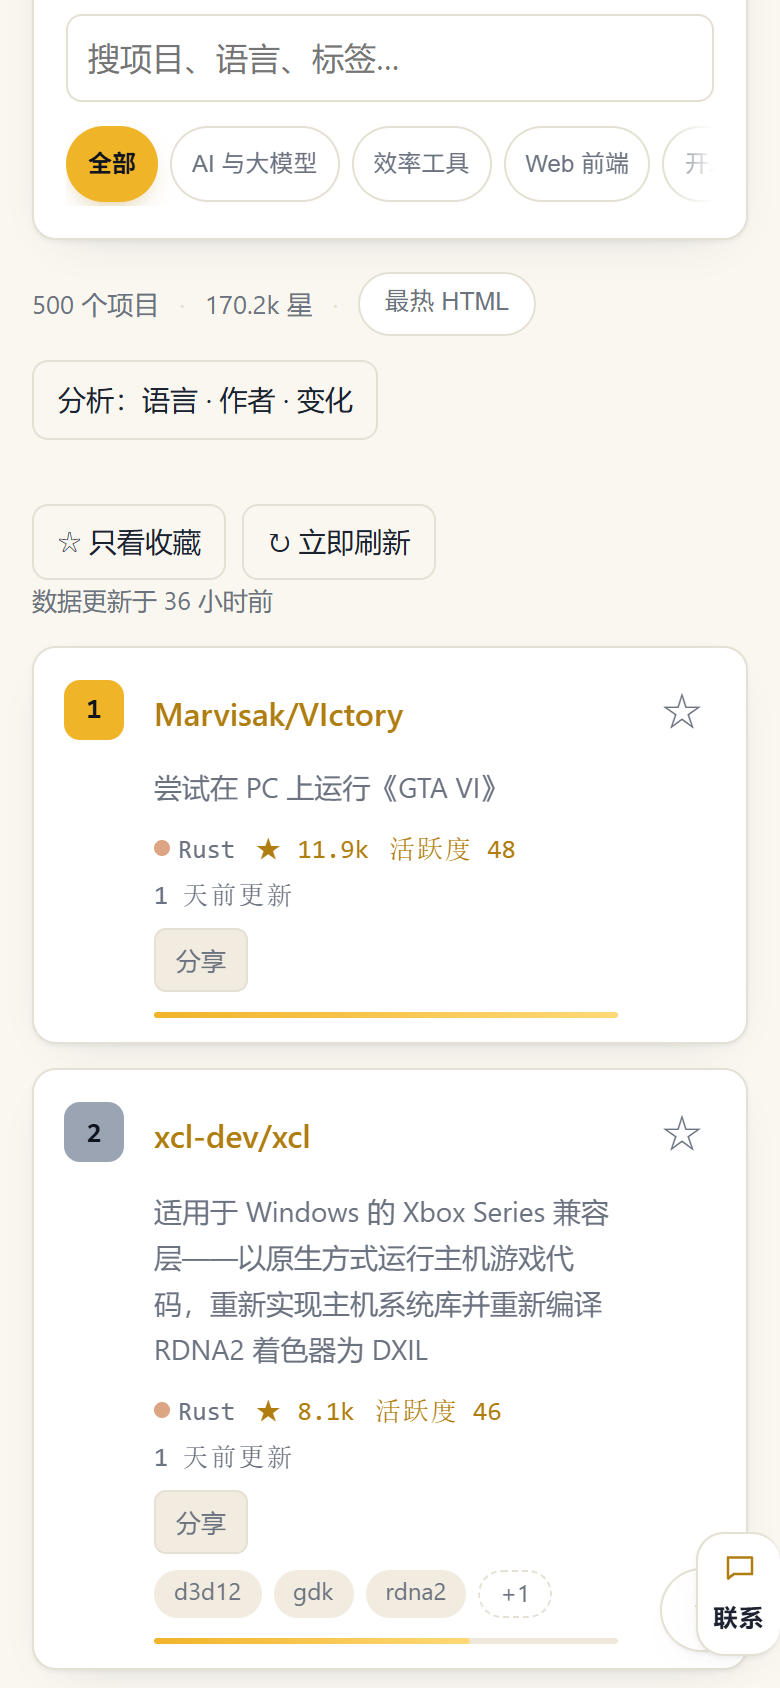
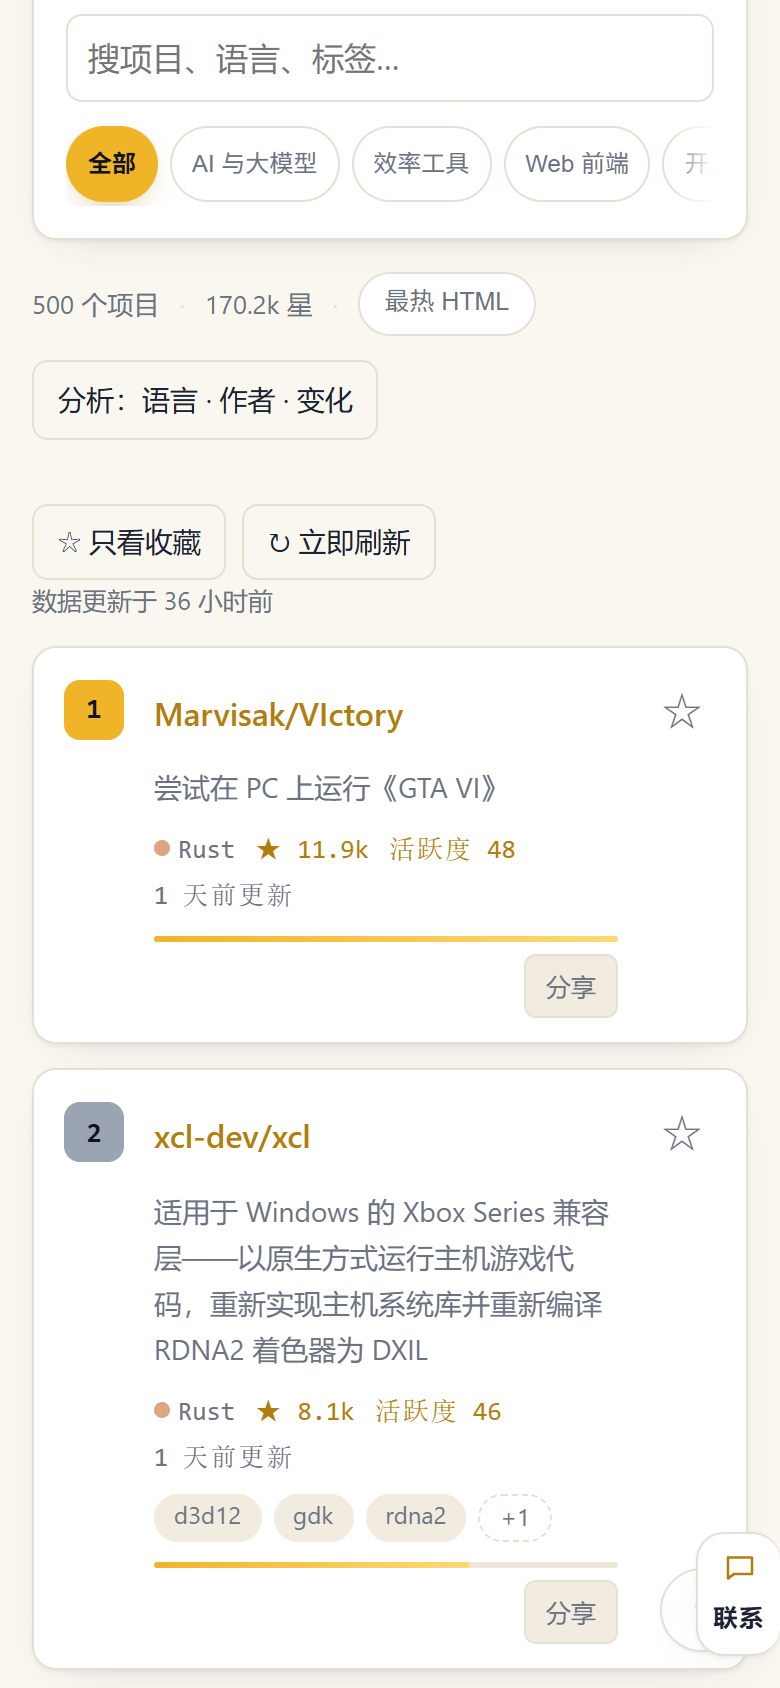
fix(home): 「分享」按钮改成整行右对齐（窄屏）；桌面仍隐藏
- 第一版直接 append 到卡片 body：inline-flex 在 block 父级里 margin-left:auto 无效，按钮落在左边
- 改为包一层 .mshare-row（窄屏 display:block;text-align:right），并把它放在卡片末尾（标签与进度条之后），不打断「标题→摘要→事实行→标签」的阅读顺序
- check-share-mobile 的桌面断言改成「整行 display:none 且按钮占 0 高」（原来量按钮自身 display，父级隐藏时仍报 inline-block）
- check-live 的桌面隐藏断言同步改成 .mshare-row；docs §190 补上这条实现细节

Changed region(s): [[0.1846, 0.8626, 0.8, 0.9858], [0.1846, 0.5237, 0.8, 0.6161]]

diff --git a/index.html b/index.html
@@ -302,13 +302,15 @@ html[data-theme="ink"] .navcard .hitmark,html[data-theme="ink"] .navjump .hitmar
 .skip{position:absolute;left:-9999px;top:0;z-index:80;padding:10px 14px;border-radius:0 0 10px 0;background:var(--accent);color:#fff;font-weight:700;text-decoration:none;font-size:14px}
 .skip:focus{left:0;outline:2px solid var(--accent-ink,var(--accent));outline-offset:2px}
 .mini{background:var(--chip);color:var(--muted);border:1px solid var(--border);border-radius:6px;padding:0 8px;font:inherit;font-size:12px;cursor:pointer}
-#list .item .mini.mshare{display:none;margin-left:auto;margin-top:6px}
+#list .item .mshare-row{display:none}
+#list .item .mini.mshare{margin:0}
 @media (hover:hover) and (pointer:fine){
   #list .item .mini{opacity:0;transition:opacity .15s ease}
   #list .item:hover .mini,#list .item:focus-within .mini{opacity:1}
 }
 @media (hover:none){
   #list .item .mini{display:none}
+  #list .item .mshare-row{display:block;text-align:right;margin-top:6px}
   #list .item .mini.mshare{display:inline-flex;align-items:center;opacity:1;align-self:flex-end;min-height:32px;padding:0 10px;font-size:12.5px}
 }
 /* 数据没读出来时的卡片：别只留一行红字，说清怎么回事、给下一步 */
@@ -322,6 +324,7 @@ html[data-theme="ink"] .navcard .hitmark,html[data-theme="ink"] .navjump .hitmar
 @media (max-width:760px){
   /* 窄屏一律隐藏：不依赖 (hover)/(pointer) 判断，手机、平板、触屏笔记本都干净 */
   #list .item .mini{display:none}
+  #list .item .mshare-row{display:block;text-align:right;margin-top:6px}
   #list .item .mini.mshare{display:inline-flex;align-items:center;opacity:1;align-self:flex-end;min-height:32px;padding:0 10px;font-size:12.5px}
   /* 换行后的行距收窄：14px 的 gap 在手机上会让两行信息看起来像断开的两段 */
   #list .item .meta{gap:2px 10px}

diff --git a/js/bundle.js b/js/bundle.js
@@ -570,7 +570,8 @@ function renderItem(r, rank, maxStars, trend) {
   share.onclick = () => shareCard(r, rank);
   meta.append(share);
   body.append(meta);
-  body.append(mshare);
+  var mrow = el('div', 'mshare-row');
+  mrow.append(mshare);
 
   const tagList = r.topics || [];
   if (tagList.length) {
@@ -594,6 +595,7 @@ function renderItem(r, rank, maxStars, trend) {
   fill.style.width = (maxStars ? Math.max(2, Math.round(r.stars / maxStars * 100)) : 0) + '%';
   bar.append(fill);
   body.append(bar);
+  body.append(mrow);
   li.append(body);
 
   const fav = el('button', 'fav' + (faved ? ' on' : ''), faved ? '★' : '☆');

diff --git a/sw.js b/sw.js
@@ -1,5 +1,5 @@
 /* Service Worker：缓存页面外壳（HTML/JS/图标），让离线也能打开；GitHub API 不缓存，由页面自己的 localStorage 管理 */
-const CACHE = 'ghrank-shell-v225';
+const CACHE = 'ghrank-shell-v226';
 const SHELL = ['./', 'index.html', 'js/bundle.js', 'js/md.js', 'manifest.json', 'icon.svg'];
 // 只预缓存 meta（约 2KB）。榜单数据按 range 分文件、由页面按需加载，不再在安装时白下几�?KB
 const DATA = 'data/repos-meta.js';

diff --git a/worker.js b/worker.js
@@ -1688,7 +1688,7 @@ async function injectFaqLd(env, html) {
 
 // 静态资源版本：HTML 里的 /js/*.js 都会被加上 ?v=<这里>，于是能给浏览器一年 immutable；
 // 改了前端就把它 +1（不然用户浏览器会抱着一周的旧 bundle，界面上去点了没反应）
-const ASSET_V = 'v225';
+const ASSET_V = 'v226';
 
 function emptyNav() {
   return { updatedAt: '', groups: [] };

diff --git a/docs/优化建议.md b/docs/优化建议.md
@@ -7431,7 +7431,7 @@ function setPage(n) {
 **改法**：单独放一个 `.mshare`（分享）按钮，只出现在窄屏：
 
 - 桌面：`#list .item .mini.mshare{display:none}`（悬停时的复制/卡片照旧）；
-- 窄屏：在原来两条「藏 `.mini`」的规则后各补一条，把 `.mshare` 放出来（`inline-flex`、`min-height:32px`、`opacity:1`）；
+- 窄屏：在原来两条「藏 `.mini`」的规则后各补一条，把 `.mshare-row` 放出来（`display:block;text-align:right`）并让里面的 `.mshare` 变 `inline-flex`（`min-height:32px`）；卡片里按钮包一层 `<div class="mshare-row">` —— `inline-flex` 在 block 父级里 `margin-left:auto` 不生效，只有 flex 父级或用「行末对齐的块」才真贴右；
 - 点击优先走系统分享面板：
 
 ```js
